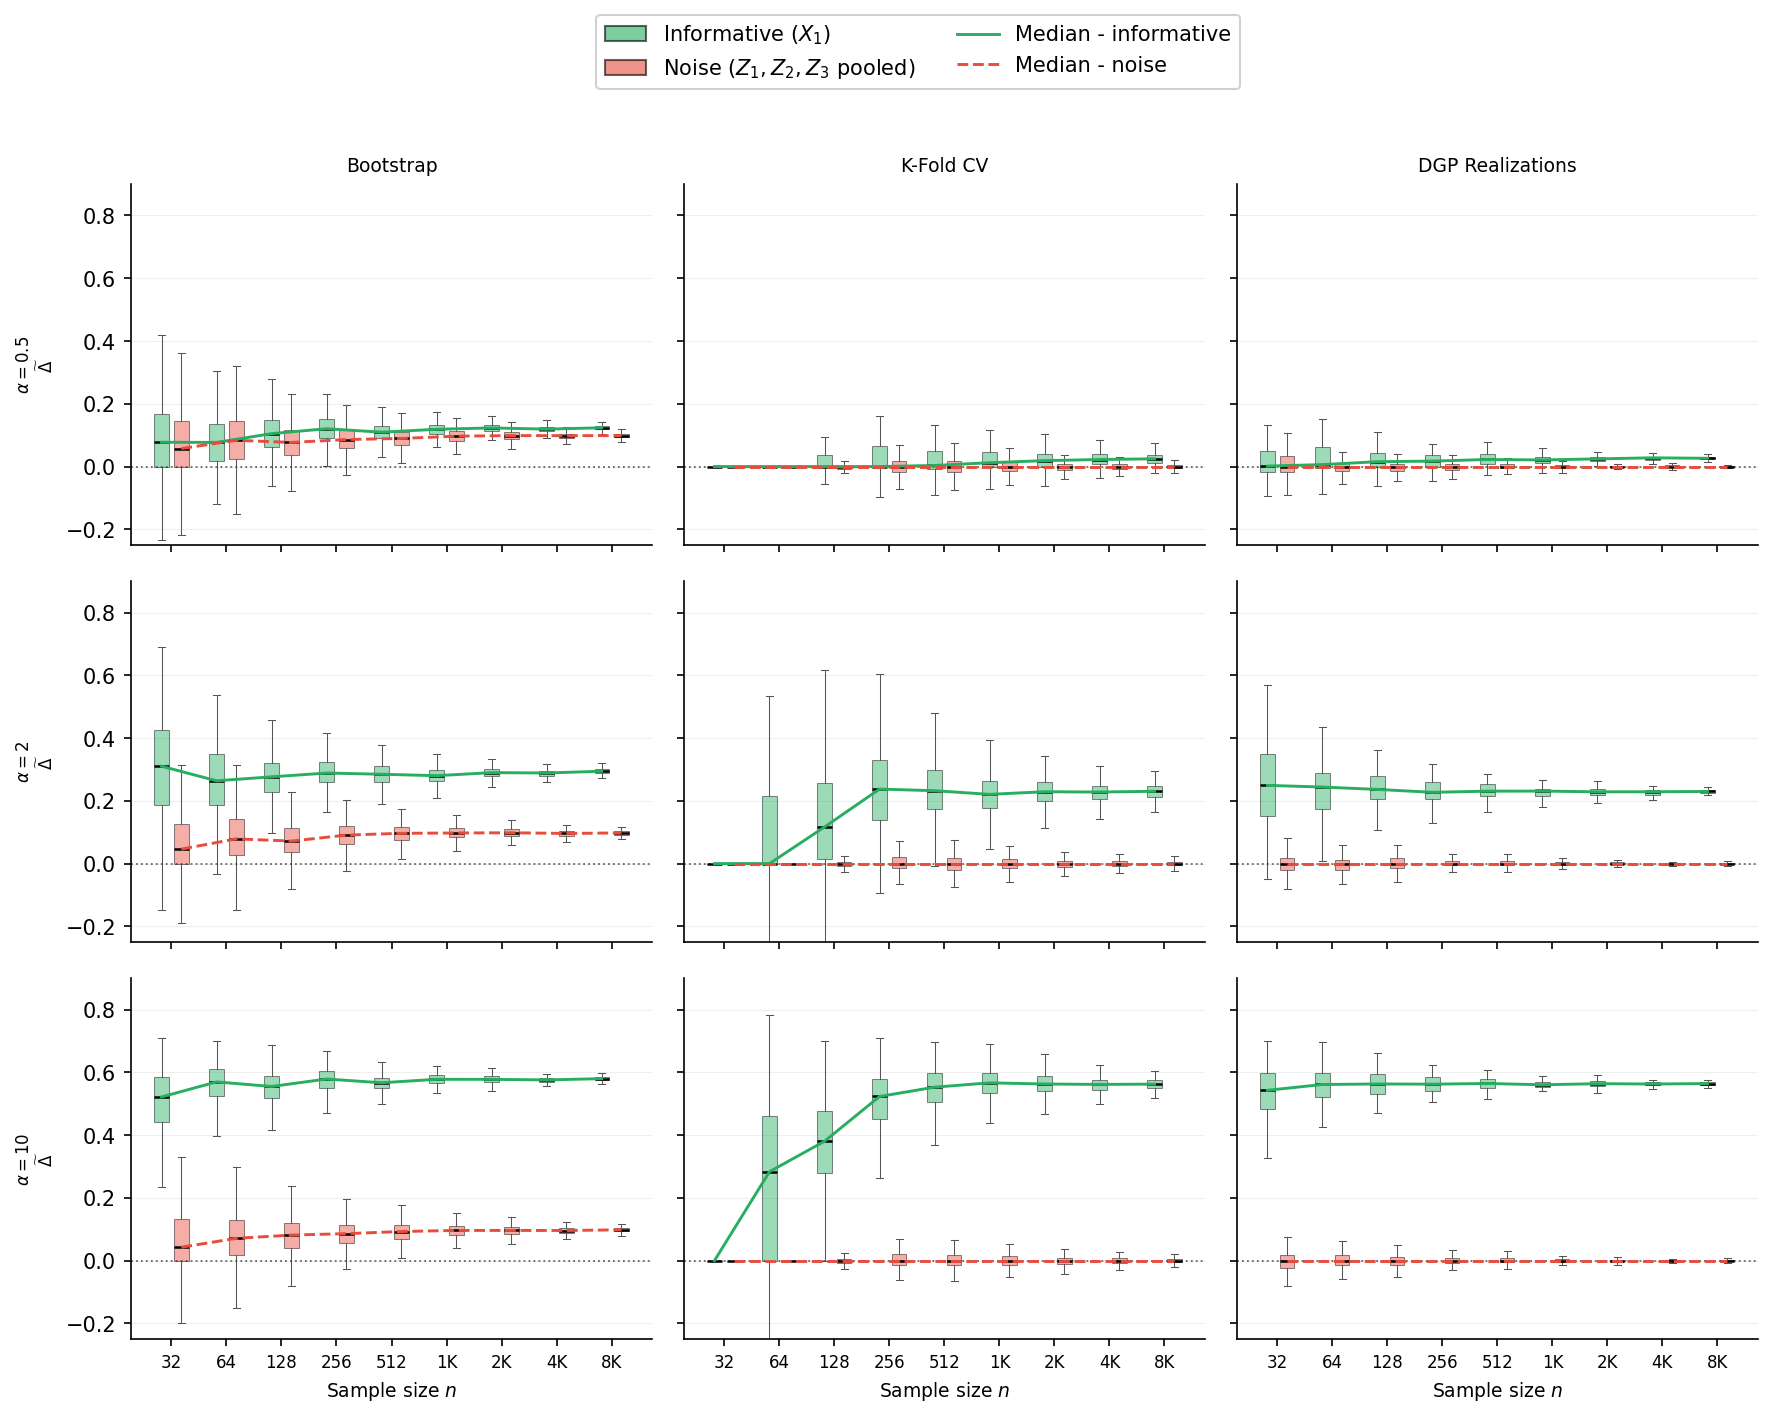
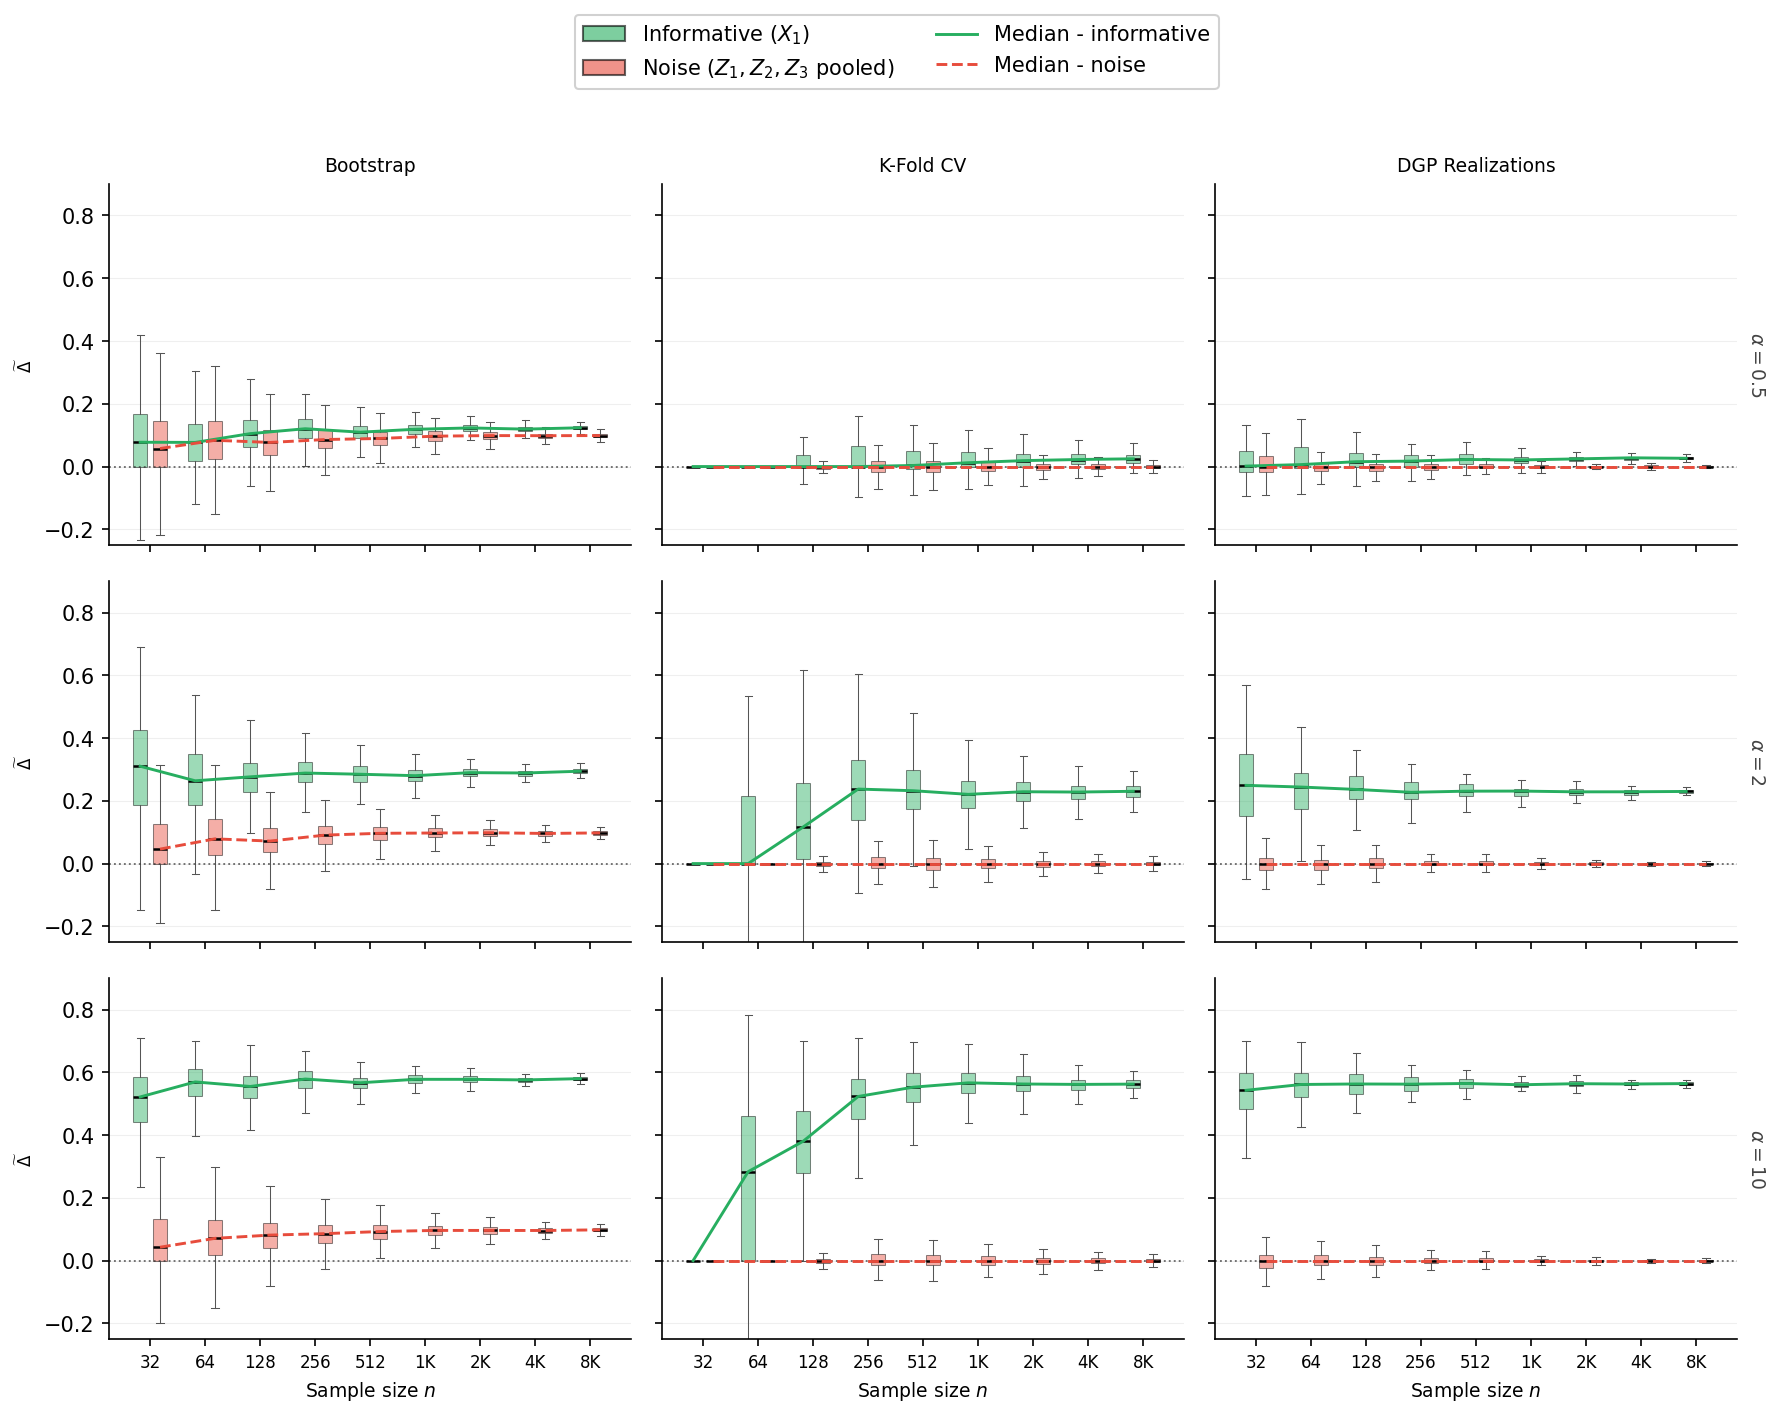
se cambia lugar de alpha en los graficos

diff --git a/code_manuscript/extra_exp1_signal_factor_sensitivity.py b/code_manuscript/extra_exp1_signal_factor_sensitivity.py
@@ -284,9 +284,16 @@ def make_figure(df: pd.DataFrame) -> None:
                 ax.set_xticklabels([])
 
             if col == 0:
+                ax.set_ylabel(r"$\widetilde{\Delta}$", fontsize=8)
+
+            if col == len(protocols) - 1:
+                ax.yaxis.set_label_position("right")
                 ax.set_ylabel(
-                    factor_labels[signal_factor] + "\n" + r"$\widetilde{\Delta}$",
-                    fontsize=8,
+                    factor_labels[signal_factor],
+                    fontsize=9,
+                    rotation=270,
+                    labelpad=14,
+                    color="#444444",
                 )
 
     from matplotlib.lines import Line2D
